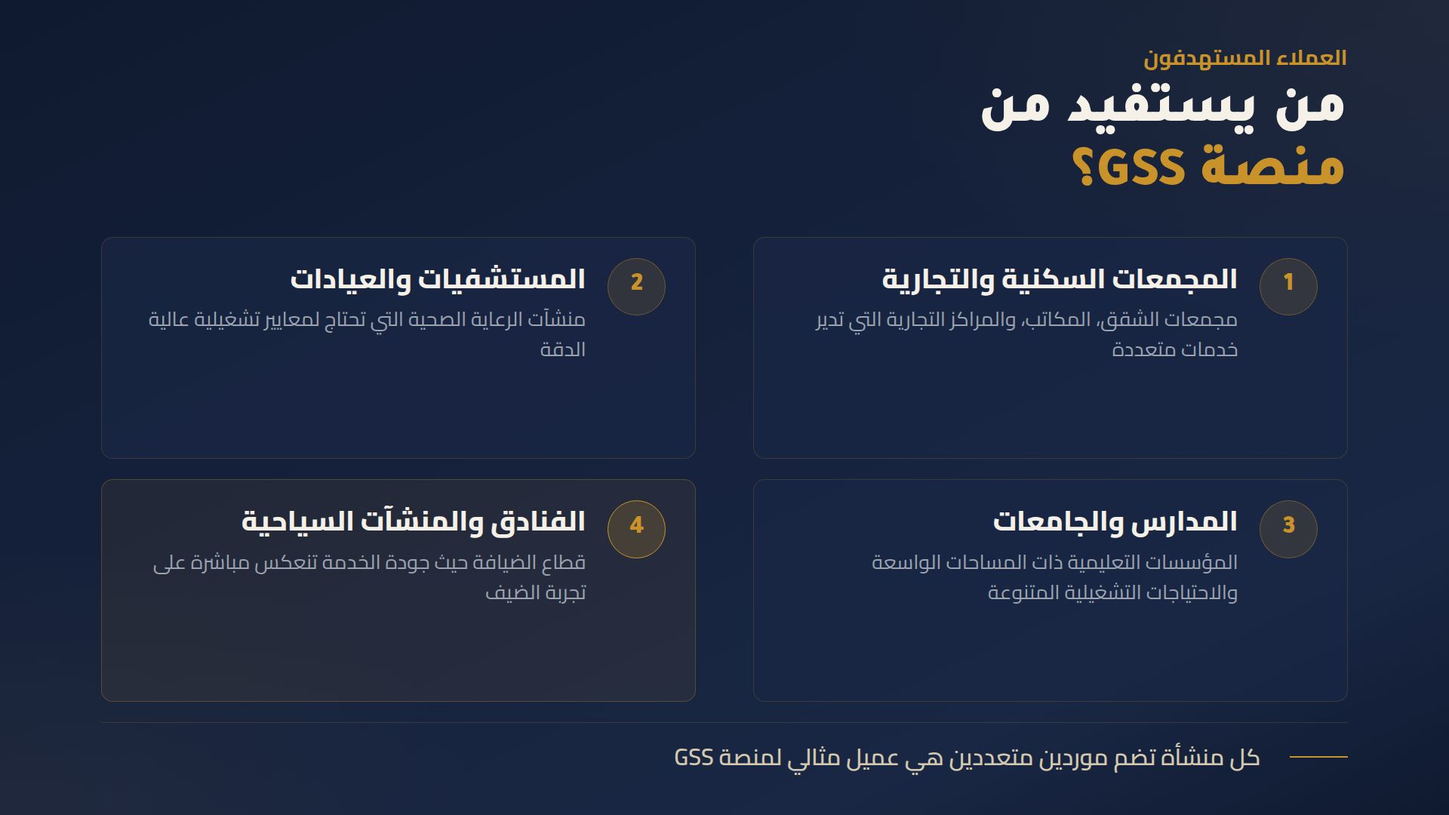
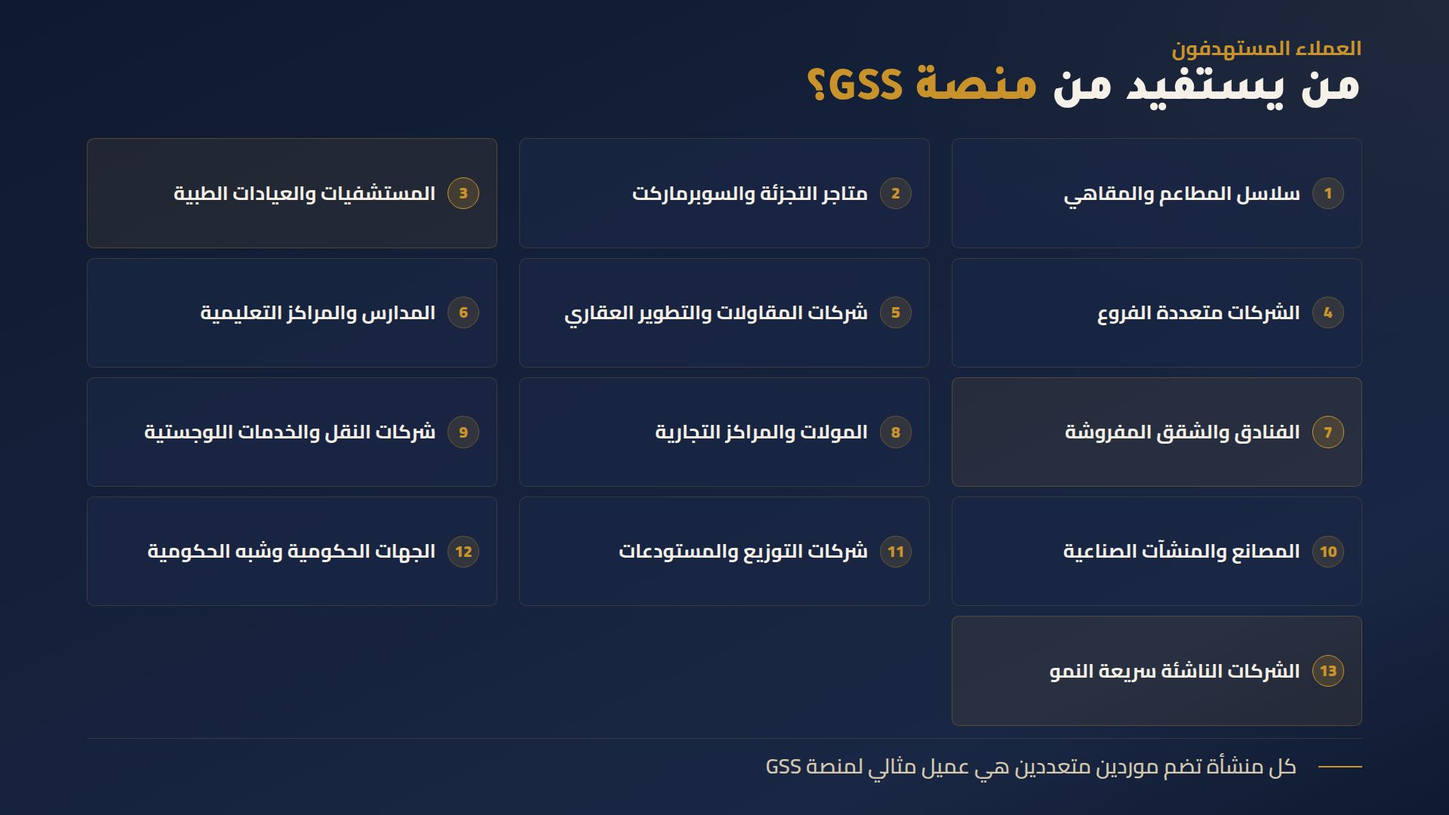
Update presentation slides to include comprehensive service and beneficiary information
Updated slides 3, 4, and 5 of the pitch deck to reflect a more detailed and accurate representation of services, target beneficiaries, and revenue streams based on the GSS platform.

Replit-Commit-Author: Agent
Replit-Commit-Session-Id: fefb3f42-8fe7-4d4a-b31c-d2b4e2bcc6b7
Replit-Commit-Checkpoint-Type: full_checkpoint
Replit-Commit-Event-Id: a2b8fd0d-dbaf-4f71-9571-b289b795e600
Replit-Commit-Screenshot-Url: https://storage.googleapis.com/screenshot-production-us-central1/638945ee-c34d-4790-b189-9802f7f0cc91/fefb3f42-8fe7-4d4a-b31c-d2b4e2bcc6b7/qyDsEtG
Replit-Helium-Checkpoint-Created: true

diff --git a/artifacts/pitch-deck/src/pages/slides/Slide4WhoWeBenefit.tsx b/artifacts/pitch-deck/src/pages/slides/Slide4WhoWeBenefit.tsx
@@ -2,59 +2,114 @@ export default function Slide4WhoWeBenefit() {
   return (
     <div className="relative w-screen h-screen overflow-hidden" dir="rtl" style={{ background: "linear-gradient(155deg, #0f1a30 0%, #1a2744 80%, #0f1a30 100%)" }}>
       <div className="absolute" style={{ top: 0, right: 0, width: "50vw", height: "50vh", background: "radial-gradient(ellipse at top right, rgba(201,146,42,0.06), transparent 60%)" }} />
-      <div className="absolute" style={{ bottom: 0, left: 0, width: "40vw", height: "40vh", background: "radial-gradient(ellipse at bottom left, rgba(201,146,42,0.05), transparent 60%)" }} />
 
-      <div className="absolute inset-0 flex flex-col" style={{ padding: "5vh 7vw" }}>
-        <div style={{ marginBottom: "1vh" }}>
-          <span className="font-body" style={{ fontSize: "1.5vw", color: "#c9922a", fontWeight: 700, letterSpacing: "0.15em" }}>العملاء المستهدفون</span>
+      <div className="absolute inset-0 flex flex-col" style={{ padding: "4vh 6vw" }}>
+        <div style={{ marginBottom: "0.5vh" }}>
+          <span className="font-body" style={{ fontSize: "1.4vw", color: "#c9922a", fontWeight: 700, letterSpacing: "0.15em" }}>العملاء المستهدفون</span>
         </div>
-        <h2 className="font-display font-black" style={{ fontSize: "3.8vw", color: "#f5f0e8", lineHeight: 1.15, marginBottom: "3.5vh", letterSpacing: "-0.01em" }}>
-          من يستفيد من<br />
-          <span style={{ color: "#c9922a" }}>منصة GSS؟</span>
+        <h2 className="font-display font-black" style={{ fontSize: "3.2vw", color: "#f5f0e8", lineHeight: 1.1, marginBottom: "2.5vh", letterSpacing: "-0.01em" }}>
+          من يستفيد من
+          <span style={{ color: "#c9922a" }}> منصة GSS؟</span>
         </h2>
 
-        <div style={{ display: "grid", gridTemplateColumns: "1fr 1fr", gap: "2.5vh 4vw", flex: 1 }}>
-          <div style={{ background: "rgba(26,39,68,0.7)", border: "1px solid rgba(201,146,42,0.2)", borderRadius: "0.8vw", padding: "2.5vh 2vw", display: "flex", gap: "1.5vw", alignItems: "flex-start" }}>
-            <div style={{ minWidth: "4vw", height: "4vw", borderRadius: "50%", background: "rgba(201,146,42,0.15)", border: "1px solid rgba(201,146,42,0.4)", display: "flex", alignItems: "center", justifyContent: "center" }}>
-              <span style={{ fontSize: "1.8vw", fontWeight: 900, color: "#c9922a", fontFamily: "var(--font-display-family)" }}>1</span>
+        <div style={{ display: "grid", gridTemplateColumns: "1fr 1fr 1fr", gap: "1.2vh 1.5vw", flex: 1 }}>
+
+          <div style={{ background: "rgba(26,39,68,0.7)", border: "1px solid rgba(201,146,42,0.2)", borderRadius: "0.5vw", padding: "1.4vh 1.2vw", display: "flex", alignItems: "center", gap: "0.8vw" }}>
+            <div style={{ minWidth: "2.2vw", height: "2.2vw", borderRadius: "50%", background: "rgba(201,146,42,0.15)", border: "1px solid rgba(201,146,42,0.35)", display: "flex", alignItems: "center", justifyContent: "center" }}>
+              <span style={{ fontSize: "1.1vw", fontWeight: 900, color: "#c9922a" }}>1</span>
             </div>
-            <div>
-              <div style={{ fontSize: "1.9vw", color: "#f5f0e8", fontWeight: 800, marginBottom: "0.5vh" }}>المجمعات السكنية والتجارية</div>
-              <div style={{ fontSize: "1.4vw", color: "#9ca3b0", lineHeight: 1.5 }}>مجمعات الشقق، المكاتب، والمراكز التجارية التي تدير خدمات متعددة</div>
-            </div>
+            <span style={{ fontSize: "1.35vw", color: "#f5f0e8", fontWeight: 700 }}>سلاسل المطاعم والمقاهي</span>
           </div>
-          <div style={{ background: "rgba(26,39,68,0.7)", border: "1px solid rgba(201,146,42,0.2)", borderRadius: "0.8vw", padding: "2.5vh 2vw", display: "flex", gap: "1.5vw", alignItems: "flex-start" }}>
-            <div style={{ minWidth: "4vw", height: "4vw", borderRadius: "50%", background: "rgba(201,146,42,0.15)", border: "1px solid rgba(201,146,42,0.4)", display: "flex", alignItems: "center", justifyContent: "center" }}>
-              <span style={{ fontSize: "1.8vw", fontWeight: 900, color: "#c9922a", fontFamily: "var(--font-display-family)" }}>2</span>
+
+          <div style={{ background: "rgba(26,39,68,0.7)", border: "1px solid rgba(201,146,42,0.2)", borderRadius: "0.5vw", padding: "1.4vh 1.2vw", display: "flex", alignItems: "center", gap: "0.8vw" }}>
+            <div style={{ minWidth: "2.2vw", height: "2.2vw", borderRadius: "50%", background: "rgba(201,146,42,0.15)", border: "1px solid rgba(201,146,42,0.35)", display: "flex", alignItems: "center", justifyContent: "center" }}>
+              <span style={{ fontSize: "1.1vw", fontWeight: 900, color: "#c9922a" }}>2</span>
             </div>
-            <div>
-              <div style={{ fontSize: "1.9vw", color: "#f5f0e8", fontWeight: 800, marginBottom: "0.5vh" }}>المستشفيات والعيادات</div>
-              <div style={{ fontSize: "1.4vw", color: "#9ca3b0", lineHeight: 1.5 }}>منشآت الرعاية الصحية التي تحتاج لمعايير تشغيلية عالية الدقة</div>
-            </div>
+            <span style={{ fontSize: "1.35vw", color: "#f5f0e8", fontWeight: 700 }}>متاجر التجزئة والسوبرماركت</span>
           </div>
-          <div style={{ background: "rgba(26,39,68,0.7)", border: "1px solid rgba(201,146,42,0.2)", borderRadius: "0.8vw", padding: "2.5vh 2vw", display: "flex", gap: "1.5vw", alignItems: "flex-start" }}>
-            <div style={{ minWidth: "4vw", height: "4vw", borderRadius: "50%", background: "rgba(201,146,42,0.15)", border: "1px solid rgba(201,146,42,0.4)", display: "flex", alignItems: "center", justifyContent: "center" }}>
-              <span style={{ fontSize: "1.8vw", fontWeight: 900, color: "#c9922a", fontFamily: "var(--font-display-family)" }}>3</span>
+
+          <div style={{ background: "rgba(201,146,42,0.09)", border: "1px solid rgba(201,146,42,0.3)", borderRadius: "0.5vw", padding: "1.4vh 1.2vw", display: "flex", alignItems: "center", gap: "0.8vw" }}>
+            <div style={{ minWidth: "2.2vw", height: "2.2vw", borderRadius: "50%", background: "rgba(201,146,42,0.2)", border: "1px solid #c9922a", display: "flex", alignItems: "center", justifyContent: "center" }}>
+              <span style={{ fontSize: "1.1vw", fontWeight: 900, color: "#c9922a" }}>3</span>
             </div>
-            <div>
-              <div style={{ fontSize: "1.9vw", color: "#f5f0e8", fontWeight: 800, marginBottom: "0.5vh" }}>المدارس والجامعات</div>
-              <div style={{ fontSize: "1.4vw", color: "#9ca3b0", lineHeight: 1.5 }}>المؤسسات التعليمية ذات المساحات الواسعة والاحتياجات التشغيلية المتنوعة</div>
-            </div>
+            <span style={{ fontSize: "1.35vw", color: "#f5f0e8", fontWeight: 700 }}>المستشفيات والعيادات الطبية</span>
           </div>
-          <div style={{ background: "rgba(201,146,42,0.08)", border: "1px solid rgba(201,146,42,0.3)", borderRadius: "0.8vw", padding: "2.5vh 2vw", display: "flex", gap: "1.5vw", alignItems: "flex-start" }}>
-            <div style={{ minWidth: "4vw", height: "4vw", borderRadius: "50%", background: "rgba(201,146,42,0.2)", border: "1px solid #c9922a", display: "flex", alignItems: "center", justifyContent: "center" }}>
-              <span style={{ fontSize: "1.8vw", fontWeight: 900, color: "#c9922a", fontFamily: "var(--font-display-family)" }}>4</span>
+
+          <div style={{ background: "rgba(26,39,68,0.7)", border: "1px solid rgba(201,146,42,0.2)", borderRadius: "0.5vw", padding: "1.4vh 1.2vw", display: "flex", alignItems: "center", gap: "0.8vw" }}>
+            <div style={{ minWidth: "2.2vw", height: "2.2vw", borderRadius: "50%", background: "rgba(201,146,42,0.15)", border: "1px solid rgba(201,146,42,0.35)", display: "flex", alignItems: "center", justifyContent: "center" }}>
+              <span style={{ fontSize: "1.1vw", fontWeight: 900, color: "#c9922a" }}>4</span>
             </div>
-            <div>
-              <div style={{ fontSize: "1.9vw", color: "#f5f0e8", fontWeight: 800, marginBottom: "0.5vh" }}>الفنادق والمنشآت السياحية</div>
-              <div style={{ fontSize: "1.4vw", color: "#9ca3b0", lineHeight: 1.5 }}>قطاع الضيافة حيث جودة الخدمة تنعكس مباشرة على تجربة الضيف</div>
-            </div>
+            <span style={{ fontSize: "1.35vw", color: "#f5f0e8", fontWeight: 700 }}>الشركات متعددة الفروع</span>
           </div>
+
+          <div style={{ background: "rgba(26,39,68,0.7)", border: "1px solid rgba(201,146,42,0.2)", borderRadius: "0.5vw", padding: "1.4vh 1.2vw", display: "flex", alignItems: "center", gap: "0.8vw" }}>
+            <div style={{ minWidth: "2.2vw", height: "2.2vw", borderRadius: "50%", background: "rgba(201,146,42,0.15)", border: "1px solid rgba(201,146,42,0.35)", display: "flex", alignItems: "center", justifyContent: "center" }}>
+              <span style={{ fontSize: "1.1vw", fontWeight: 900, color: "#c9922a" }}>5</span>
+            </div>
+            <span style={{ fontSize: "1.35vw", color: "#f5f0e8", fontWeight: 700 }}>شركات المقاولات والتطوير العقاري</span>
+          </div>
+
+          <div style={{ background: "rgba(26,39,68,0.7)", border: "1px solid rgba(201,146,42,0.2)", borderRadius: "0.5vw", padding: "1.4vh 1.2vw", display: "flex", alignItems: "center", gap: "0.8vw" }}>
+            <div style={{ minWidth: "2.2vw", height: "2.2vw", borderRadius: "50%", background: "rgba(201,146,42,0.15)", border: "1px solid rgba(201,146,42,0.35)", display: "flex", alignItems: "center", justifyContent: "center" }}>
+              <span style={{ fontSize: "1.1vw", fontWeight: 900, color: "#c9922a" }}>6</span>
+            </div>
+            <span style={{ fontSize: "1.35vw", color: "#f5f0e8", fontWeight: 700 }}>المدارس والمراكز التعليمية</span>
+          </div>
+
+          <div style={{ background: "rgba(201,146,42,0.09)", border: "1px solid rgba(201,146,42,0.3)", borderRadius: "0.5vw", padding: "1.4vh 1.2vw", display: "flex", alignItems: "center", gap: "0.8vw" }}>
+            <div style={{ minWidth: "2.2vw", height: "2.2vw", borderRadius: "50%", background: "rgba(201,146,42,0.2)", border: "1px solid #c9922a", display: "flex", alignItems: "center", justifyContent: "center" }}>
+              <span style={{ fontSize: "1.1vw", fontWeight: 900, color: "#c9922a" }}>7</span>
+            </div>
+            <span style={{ fontSize: "1.35vw", color: "#f5f0e8", fontWeight: 700 }}>الفنادق والشقق المفروشة</span>
+          </div>
+
+          <div style={{ background: "rgba(26,39,68,0.7)", border: "1px solid rgba(201,146,42,0.2)", borderRadius: "0.5vw", padding: "1.4vh 1.2vw", display: "flex", alignItems: "center", gap: "0.8vw" }}>
+            <div style={{ minWidth: "2.2vw", height: "2.2vw", borderRadius: "50%", background: "rgba(201,146,42,0.15)", border: "1px solid rgba(201,146,42,0.35)", display: "flex", alignItems: "center", justifyContent: "center" }}>
+              <span style={{ fontSize: "1.1vw", fontWeight: 900, color: "#c9922a" }}>8</span>
+            </div>
+            <span style={{ fontSize: "1.35vw", color: "#f5f0e8", fontWeight: 700 }}>المولات والمراكز التجارية</span>
+          </div>
+
+          <div style={{ background: "rgba(26,39,68,0.7)", border: "1px solid rgba(201,146,42,0.2)", borderRadius: "0.5vw", padding: "1.4vh 1.2vw", display: "flex", alignItems: "center", gap: "0.8vw" }}>
+            <div style={{ minWidth: "2.2vw", height: "2.2vw", borderRadius: "50%", background: "rgba(201,146,42,0.15)", border: "1px solid rgba(201,146,42,0.35)", display: "flex", alignItems: "center", justifyContent: "center" }}>
+              <span style={{ fontSize: "1.1vw", fontWeight: 900, color: "#c9922a" }}>9</span>
+            </div>
+            <span style={{ fontSize: "1.35vw", color: "#f5f0e8", fontWeight: 700 }}>شركات النقل والخدمات اللوجستية</span>
+          </div>
+
+          <div style={{ background: "rgba(26,39,68,0.7)", border: "1px solid rgba(201,146,42,0.2)", borderRadius: "0.5vw", padding: "1.4vh 1.2vw", display: "flex", alignItems: "center", gap: "0.8vw" }}>
+            <div style={{ minWidth: "2.2vw", height: "2.2vw", borderRadius: "50%", background: "rgba(201,146,42,0.15)", border: "1px solid rgba(201,146,42,0.35)", display: "flex", alignItems: "center", justifyContent: "center" }}>
+              <span style={{ fontSize: "1.1vw", fontWeight: 900, color: "#c9922a" }}>10</span>
+            </div>
+            <span style={{ fontSize: "1.35vw", color: "#f5f0e8", fontWeight: 700 }}>المصانع والمنشآت الصناعية</span>
+          </div>
+
+          <div style={{ background: "rgba(26,39,68,0.7)", border: "1px solid rgba(201,146,42,0.2)", borderRadius: "0.5vw", padding: "1.4vh 1.2vw", display: "flex", alignItems: "center", gap: "0.8vw" }}>
+            <div style={{ minWidth: "2.2vw", height: "2.2vw", borderRadius: "50%", background: "rgba(201,146,42,0.15)", border: "1px solid rgba(201,146,42,0.35)", display: "flex", alignItems: "center", justifyContent: "center" }}>
+              <span style={{ fontSize: "1.1vw", fontWeight: 900, color: "#c9922a" }}>11</span>
+            </div>
+            <span style={{ fontSize: "1.35vw", color: "#f5f0e8", fontWeight: 700 }}>شركات التوزيع والمستودعات</span>
+          </div>
+
+          <div style={{ background: "rgba(26,39,68,0.7)", border: "1px solid rgba(201,146,42,0.2)", borderRadius: "0.5vw", padding: "1.4vh 1.2vw", display: "flex", alignItems: "center", gap: "0.8vw" }}>
+            <div style={{ minWidth: "2.2vw", height: "2.2vw", borderRadius: "50%", background: "rgba(201,146,42,0.15)", border: "1px solid rgba(201,146,42,0.35)", display: "flex", alignItems: "center", justifyContent: "center" }}>
+              <span style={{ fontSize: "1.1vw", fontWeight: 900, color: "#c9922a" }}>12</span>
+            </div>
+            <span style={{ fontSize: "1.35vw", color: "#f5f0e8", fontWeight: 700 }}>الجهات الحكومية وشبه الحكومية</span>
+          </div>
+
+          <div style={{ background: "rgba(201,146,42,0.09)", border: "1px solid rgba(201,146,42,0.3)", borderRadius: "0.5vw", padding: "1.4vh 1.2vw", display: "flex", alignItems: "center", gap: "0.8vw" }}>
+            <div style={{ minWidth: "2.2vw", height: "2.2vw", borderRadius: "50%", background: "rgba(201,146,42,0.2)", border: "1px solid #c9922a", display: "flex", alignItems: "center", justifyContent: "center" }}>
+              <span style={{ fontSize: "1.1vw", fontWeight: 900, color: "#c9922a" }}>13</span>
+            </div>
+            <span style={{ fontSize: "1.35vw", color: "#f5f0e8", fontWeight: 700 }}>الشركات الناشئة سريعة النمو</span>
+          </div>
+
         </div>
 
-        <div style={{ marginTop: "2.5vh", display: "flex", alignItems: "center", gap: "2vw", borderTop: "1px solid rgba(201,146,42,0.2)", paddingTop: "2vh" }}>
-          <div style={{ width: "4vw", height: "2px", background: "#c9922a" }} />
-          <p className="font-body" style={{ fontSize: "1.6vw", color: "#d4c9b0", fontWeight: 600 }}>
+        <div style={{ marginTop: "1.5vh", display: "flex", alignItems: "center", gap: "1.5vw", borderTop: "1px solid rgba(201,146,42,0.2)", paddingTop: "1.5vh" }}>
+          <div style={{ width: "3vw", height: "2px", background: "#c9922a" }} />
+          <p className="font-body" style={{ fontSize: "1.45vw", color: "#d4c9b0", fontWeight: 600 }}>
             كل منشأة تضم موردين متعددين هي عميل مثالي لمنصة GSS
           </p>
         </div>

diff --git a/artifacts/pitch-deck/src/pages/slides/Slide3Solution.tsx b/artifacts/pitch-deck/src/pages/slides/Slide3Solution.tsx
@@ -1,48 +1,109 @@
 export default function Slide3Solution() {
   return (
     <div className="relative w-screen h-screen overflow-hidden" dir="rtl" style={{ background: "#0f1a30" }}>
-      <div className="absolute" style={{ top: "10vh", right: "-5vw", width: "45vw", height: "45vw", borderRadius: "50%", background: "radial-gradient(circle, rgba(201,146,42,0.07), transparent 70%)" }} />
+      <div className="absolute" style={{ top: "8vh", right: "-4vw", width: "40vw", height: "40vw", borderRadius: "50%", background: "radial-gradient(circle, rgba(201,146,42,0.06), transparent 70%)" }} />
+      <div className="absolute inset-0 flex flex-col" style={{ padding: "4vh 6vw" }}>
 
-      <div className="absolute inset-0 flex flex-col" style={{ padding: "5vh 7vw" }}>
-        <div style={{ marginBottom: "1vh" }}>
-          <span className="font-body" style={{ fontSize: "1.5vw", color: "#c9922a", fontWeight: 700, letterSpacing: "0.15em" }}>الحل</span>
+        <div style={{ marginBottom: "0.5vh" }}>
+          <span className="font-body" style={{ fontSize: "1.4vw", color: "#c9922a", fontWeight: 700, letterSpacing: "0.15em" }}>خدمات GSS</span>
         </div>
-        <h2 className="font-display font-black" style={{ fontSize: "3.8vw", color: "#f5f0e8", lineHeight: 1.15, marginBottom: "3.5vh", letterSpacing: "-0.01em" }}>
-          GSS — ستة خدمات جوهرية<br />
-          <span style={{ color: "#c9922a" }}>منظومة متكاملة لكل منشأة</span>
+        <h2 className="font-display font-black" style={{ fontSize: "3.2vw", color: "#f5f0e8", lineHeight: 1.1, marginBottom: "2.5vh", letterSpacing: "-0.01em" }}>
+          خدمات تشغيلية وإدارية
+          <span style={{ color: "#c9922a" }}> متكاملة</span>
         </h2>
 
-        <div style={{ display: "grid", gridTemplateColumns: "1fr 1fr 1fr", gap: "1.8vh 2vw", flex: 1 }}>
-          <div style={{ background: "rgba(201,146,42,0.08)", border: "1px solid rgba(201,146,42,0.25)", borderRadius: "0.5vw", padding: "2vh 1.5vw" }}>
-            <div style={{ fontSize: "2.2vw", fontWeight: 900, color: "#c9922a", fontFamily: "var(--font-display-family)", marginBottom: "0.8vh" }}>01</div>
-            <div style={{ fontSize: "1.7vw", color: "#f5f0e8", fontWeight: 700, marginBottom: "0.5vh" }}>الصيانة والإصلاح</div>
-            <div style={{ fontSize: "1.4vw", color: "#9ca3b0", lineHeight: 1.4 }}>إدارة طلبات الصيانة الدورية والطارئة بكفاءة عالية</div>
+        <div style={{ display: "grid", gridTemplateColumns: "1fr 1fr", gap: "2vw", flex: 1 }}>
+
+          <div style={{ background: "rgba(26,39,68,0.7)", border: "1px solid rgba(201,146,42,0.25)", borderRadius: "0.6vw", padding: "2vh 1.8vw", display: "flex", flexDirection: "column", gap: "1.1vh" }}>
+            <div style={{ fontSize: "1.5vw", color: "#c9922a", fontWeight: 800, marginBottom: "0.8vh", borderBottom: "1px solid rgba(201,146,42,0.2)", paddingBottom: "0.8vh" }}>
+              خدمات تشغيلية
+            </div>
+            <div style={{ display: "flex", alignItems: "center", gap: "0.8vw" }}>
+              <div style={{ width: "0.4vw", height: "0.4vw", borderRadius: "50%", background: "#c9922a", flexShrink: 0 }} />
+              <span style={{ fontSize: "1.35vw", color: "#f5f0e8", fontWeight: 600 }}>الصيانة والتشغيل</span>
+            </div>
+            <div style={{ display: "flex", alignItems: "center", gap: "0.8vw" }}>
+              <div style={{ width: "0.4vw", height: "0.4vw", borderRadius: "50%", background: "#c9922a", flexShrink: 0 }} />
+              <span style={{ fontSize: "1.35vw", color: "#f5f0e8", fontWeight: 600 }}>الكهرباء والمياه</span>
+            </div>
+            <div style={{ display: "flex", alignItems: "center", gap: "0.8vw" }}>
+              <div style={{ width: "0.4vw", height: "0.4vw", borderRadius: "50%", background: "#c9922a", flexShrink: 0 }} />
+              <span style={{ fontSize: "1.35vw", color: "#f5f0e8", fontWeight: 600 }}>الأمن والسلامة</span>
+            </div>
+            <div style={{ display: "flex", alignItems: "center", gap: "0.8vw" }}>
+              <div style={{ width: "0.4vw", height: "0.4vw", borderRadius: "50%", background: "#c9922a", flexShrink: 0 }} />
+              <span style={{ fontSize: "1.35vw", color: "#f5f0e8", fontWeight: 600 }}>النقل والخدمات اللوجستية</span>
+            </div>
+            <div style={{ display: "flex", alignItems: "center", gap: "0.8vw" }}>
+              <div style={{ width: "0.4vw", height: "0.4vw", borderRadius: "50%", background: "#c9922a", flexShrink: 0 }} />
+              <span style={{ fontSize: "1.35vw", color: "#f5f0e8", fontWeight: 600 }}>الأسطول والمركبات</span>
+            </div>
+            <div style={{ display: "flex", alignItems: "center", gap: "0.8vw" }}>
+              <div style={{ width: "0.4vw", height: "0.4vw", borderRadius: "50%", background: "#c9922a", flexShrink: 0 }} />
+              <span style={{ fontSize: "1.35vw", color: "#f5f0e8", fontWeight: 600 }}>تجهيز الفروع والمواقع</span>
+            </div>
+            <div style={{ display: "flex", alignItems: "center", gap: "0.8vw" }}>
+              <div style={{ width: "0.4vw", height: "0.4vw", borderRadius: "50%", background: "#c9922a", flexShrink: 0 }} />
+              <span style={{ fontSize: "1.35vw", color: "#f5f0e8", fontWeight: 600 }}>خدمات الاتصالات</span>
+            </div>
+            <div style={{ display: "flex", alignItems: "center", gap: "0.8vw" }}>
+              <div style={{ width: "0.4vw", height: "0.4vw", borderRadius: "50%", background: "#c9922a", flexShrink: 0 }} />
+              <span style={{ fontSize: "1.35vw", color: "#f5f0e8", fontWeight: 600 }}>الاستجابة للحالات الطارئة</span>
+            </div>
+            <div style={{ display: "flex", alignItems: "center", gap: "0.8vw" }}>
+              <div style={{ width: "0.4vw", height: "0.4vw", borderRadius: "50%", background: "#c9922a", flexShrink: 0 }} />
+              <span style={{ fontSize: "1.35vw", color: "#f5f0e8", fontWeight: 600 }}>الأصول التشغيلية</span>
+            </div>
+            <div style={{ marginTop: "auto", paddingTop: "1vh", borderTop: "1px solid rgba(201,146,42,0.15)" }}>
+              <span style={{ fontSize: "1.2vw", color: "#9ca3b0" }}>تكييف — سباكة — كهرباء — دهانات — نجارة — نظافة — تعقيم — مكافحة حشرات — أرضيات — جبس — باركيه — غرف تبريد — عشب صناعي — مضلات — أحواض سباحة</span>
+            </div>
           </div>
-          <div style={{ background: "rgba(26,39,68,0.8)", border: "1px solid rgba(201,146,42,0.15)", borderRadius: "0.5vw", padding: "2vh 1.5vw" }}>
-            <div style={{ fontSize: "2.2vw", fontWeight: 900, color: "#c9922a", fontFamily: "var(--font-display-family)", marginBottom: "0.8vh" }}>02</div>
-            <div style={{ fontSize: "1.7vw", color: "#f5f0e8", fontWeight: 700, marginBottom: "0.5vh" }}>النظافة والتعقيم</div>
-            <div style={{ fontSize: "1.4vw", color: "#9ca3b0", lineHeight: 1.4 }}>خدمات تنظيف احترافية وفق جداول منتظمة وموثقة</div>
+
+          <div style={{ background: "linear-gradient(135deg, rgba(201,146,42,0.09), rgba(201,146,42,0.03))", border: "1px solid rgba(201,146,42,0.3)", borderRadius: "0.6vw", padding: "2vh 1.8vw", display: "flex", flexDirection: "column", gap: "1.1vh" }}>
+            <div style={{ fontSize: "1.5vw", color: "#c9922a", fontWeight: 800, marginBottom: "0.8vh", borderBottom: "1px solid rgba(201,146,42,0.2)", paddingBottom: "0.8vh" }}>
+              خدمات إدارية
+            </div>
+            <div style={{ display: "flex", alignItems: "center", gap: "0.8vw" }}>
+              <div style={{ width: "0.4vw", height: "0.4vw", borderRadius: "50%", background: "#c9922a", flexShrink: 0 }} />
+              <span style={{ fontSize: "1.35vw", color: "#f5f0e8", fontWeight: 600 }}>الاستشارات التشغيلية</span>
+            </div>
+            <div style={{ display: "flex", alignItems: "center", gap: "0.8vw" }}>
+              <div style={{ width: "0.4vw", height: "0.4vw", borderRadius: "50%", background: "#c9922a", flexShrink: 0 }} />
+              <span style={{ fontSize: "1.35vw", color: "#f5f0e8", fontWeight: 600 }}>عقود الموردين</span>
+            </div>
+            <div style={{ display: "flex", alignItems: "center", gap: "0.8vw" }}>
+              <div style={{ width: "0.4vw", height: "0.4vw", borderRadius: "50%", background: "#c9922a", flexShrink: 0 }} />
+              <span style={{ fontSize: "1.35vw", color: "#f5f0e8", fontWeight: 600 }}>الميزانية التشغيلية</span>
+            </div>
+            <div style={{ display: "flex", alignItems: "center", gap: "0.8vw" }}>
+              <div style={{ width: "0.4vw", height: "0.4vw", borderRadius: "50%", background: "#c9922a", flexShrink: 0 }} />
+              <span style={{ fontSize: "1.35vw", color: "#f5f0e8", fontWeight: 600 }}>الامتثال التشغيلي</span>
+            </div>
+            <div style={{ display: "flex", alignItems: "center", gap: "0.8vw" }}>
+              <div style={{ width: "0.4vw", height: "0.4vw", borderRadius: "50%", background: "#c9922a", flexShrink: 0 }} />
+              <span style={{ fontSize: "1.35vw", color: "#f5f0e8", fontWeight: 600 }}>بيئة العمل والخدمات الإدارية</span>
+            </div>
+            <div style={{ display: "flex", alignItems: "center", gap: "0.8vw" }}>
+              <div style={{ width: "0.4vw", height: "0.4vw", borderRadius: "50%", background: "#c9922a", flexShrink: 0 }} />
+              <span style={{ fontSize: "1.35vw", color: "#f5f0e8", fontWeight: 600 }}>إسكان الموظفين</span>
+            </div>
+            <div style={{ display: "flex", alignItems: "center", gap: "0.8vw" }}>
+              <div style={{ width: "0.4vw", height: "0.4vw", borderRadius: "50%", background: "#c9922a", flexShrink: 0 }} />
+              <span style={{ fontSize: "1.35vw", color: "#f5f0e8", fontWeight: 600 }}>الفعاليات والمناسبات</span>
+            </div>
+            <div style={{ display: "flex", alignItems: "center", gap: "0.8vw" }}>
+              <div style={{ width: "0.4vw", height: "0.4vw", borderRadius: "50%", background: "#c9922a", flexShrink: 0 }} />
+              <span style={{ fontSize: "1.35vw", color: "#f5f0e8", fontWeight: 600 }}>تحليل المصروفات التشغيلية</span>
+            </div>
+            <div style={{ display: "flex", alignItems: "center", gap: "0.8vw" }}>
+              <div style={{ width: "0.4vw", height: "0.4vw", borderRadius: "50%", background: "#c9922a", flexShrink: 0 }} />
+              <span style={{ fontSize: "1.35vw", color: "#f5f0e8", fontWeight: 600 }}>التقارير والامتثال التنظيمي</span>
+            </div>
+            <div style={{ marginTop: "auto", paddingTop: "1vh", borderTop: "1px solid rgba(201,146,42,0.15)" }}>
+              <span style={{ fontSize: "1.25vw", color: "#d4c9b0", fontWeight: 600 }}>منصة GSS — نقطة إدارة تشغيل واحدة لكل منشأتك</span>
+            </div>
           </div>
-          <div style={{ background: "rgba(26,39,68,0.8)", border: "1px solid rgba(201,146,42,0.15)", borderRadius: "0.5vw", padding: "2vh 1.5vw" }}>
-            <div style={{ fontSize: "2.2vw", fontWeight: 900, color: "#c9922a", fontFamily: "var(--font-display-family)", marginBottom: "0.8vh" }}>03</div>
-            <div style={{ fontSize: "1.7vw", color: "#f5f0e8", fontWeight: 700, marginBottom: "0.5vh" }}>الأمن والحراسة</div>
-            <div style={{ fontSize: "1.4vw", color: "#9ca3b0", lineHeight: 1.4 }}>إدارة خدمات الحماية والأمن للمنشآت والمواقع</div>
-          </div>
-          <div style={{ background: "rgba(26,39,68,0.8)", border: "1px solid rgba(201,146,42,0.15)", borderRadius: "0.5vw", padding: "2vh 1.5vw" }}>
-            <div style={{ fontSize: "2.2vw", fontWeight: 900, color: "#c9922a", fontFamily: "var(--font-display-family)", marginBottom: "0.8vh" }}>04</div>
-            <div style={{ fontSize: "1.7vw", color: "#f5f0e8", fontWeight: 700, marginBottom: "0.5vh" }}>المناولة والنقل</div>
-            <div style={{ fontSize: "1.4vw", color: "#9ca3b0", lineHeight: 1.4 }}>تنسيق خدمات النقل الداخلي وإدارة الخدمات اللوجستية</div>
-          </div>
-          <div style={{ background: "rgba(201,146,42,0.08)", border: "1px solid rgba(201,146,42,0.25)", borderRadius: "0.5vw", padding: "2vh 1.5vw" }}>
-            <div style={{ fontSize: "2.2vw", fontWeight: 900, color: "#c9922a", fontFamily: "var(--font-display-family)", marginBottom: "0.8vh" }}>05</div>
-            <div style={{ fontSize: "1.7vw", color: "#f5f0e8", fontWeight: 700, marginBottom: "0.5vh" }}>خدمات التشغيل</div>
-            <div style={{ fontSize: "1.4vw", color: "#9ca3b0", lineHeight: 1.4 }}>إدارة العمليات اليومية للمرافق والأنظمة التقنية</div>
-          </div>
-          <div style={{ background: "rgba(26,39,68,0.8)", border: "1px solid rgba(201,146,42,0.15)", borderRadius: "0.5vw", padding: "2vh 1.5vw" }}>
-            <div style={{ fontSize: "2.2vw", fontWeight: 900, color: "#c9922a", fontFamily: "var(--font-display-family)", marginBottom: "0.8vh" }}>06</div>
-            <div style={{ fontSize: "1.7vw", color: "#f5f0e8", fontWeight: 700, marginBottom: "0.5vh" }}>التقارير والامتثال</div>
-            <div style={{ fontSize: "1.4vw", color: "#9ca3b0", lineHeight: 1.4 }}>لوحات تحكم حية، تقارير أداء، ووثائق امتثال رقمية</div>
-          </div>
+
         </div>
       </div>
     </div>

diff --git a/artifacts/pitch-deck/src/pages/slides/Slide5Revenue.tsx b/artifacts/pitch-deck/src/pages/slides/Slide5Revenue.tsx
@@ -5,57 +5,68 @@ export default function Slide5Revenue() {
       <div className="absolute" style={{ top: 0, right: 0, width: "50vw", height: "50vh", background: "radial-gradient(ellipse at top right, rgba(201,146,42,0.05), transparent 60%)" }} />
 
       <div className="absolute inset-0 flex" style={{ padding: "5vh 7vw", gap: "5vw" }}>
-        <div style={{ flex: "0 0 38vw", display: "flex", flexDirection: "column", justifyContent: "center" }}>
+        <div style={{ flex: "0 0 36vw", display: "flex", flexDirection: "column", justifyContent: "center" }}>
           <div style={{ marginBottom: "1.5vh" }}>
             <span className="font-body" style={{ fontSize: "1.5vw", color: "#c9922a", fontWeight: 700, letterSpacing: "0.15em" }}>نموذج العوائد</span>
           </div>
-          <h2 className="font-display font-black" style={{ fontSize: "4vw", color: "#f5f0e8", lineHeight: 1.15, marginBottom: "3vh", letterSpacing: "-0.01em" }}>
-            أربعة مصادر<br />
+          <h2 className="font-display font-black" style={{ fontSize: "3.8vw", color: "#f5f0e8", lineHeight: 1.15, marginBottom: "2.5vh", letterSpacing: "-0.01em" }}>
+            خمسة مصادر<br />
             <span style={{ color: "#c9922a" }}>للإيرادات المتنوعة</span>
           </h2>
-          <p className="font-body" style={{ fontSize: "1.6vw", color: "#9ca3b0", lineHeight: 1.6, maxWidth: "32vw" }}>
+          <p className="font-body" style={{ fontSize: "1.55vw", color: "#9ca3b0", lineHeight: 1.6, maxWidth: "30vw" }}>
             نموذج عمل مرن يضمن تدفق إيرادات متعدد المصادر وقابلية توسع عالية مع النمو
           </p>
-          <div style={{ marginTop: "4vh", display: "flex", gap: "2vw" }}>
+          <div style={{ marginTop: "3.5vh", display: "flex", gap: "2vw" }}>
             <div style={{ textAlign: "center" }}>
-              <div style={{ fontSize: "3.5vw", fontWeight: 900, color: "#c9922a", fontFamily: "var(--font-display-family)" }}>50+</div>
-              <div style={{ fontSize: "1.4vw", color: "#9ca3b0", marginTop: "0.3vh" }}>منشأة مستهدفة</div>
+              <div style={{ fontSize: "3.5vw", fontWeight: 900, color: "#c9922a", fontFamily: "var(--font-display-family)" }}>100+</div>
+              <div style={{ fontSize: "1.35vw", color: "#9ca3b0", marginTop: "0.3vh" }}>منشأة مستهدفة</div>
             </div>
             <div style={{ width: "1px", background: "rgba(201,146,42,0.3)" }} />
             <div style={{ textAlign: "center" }}>
-              <div style={{ fontSize: "3.5vw", fontWeight: 900, color: "#c9922a", fontFamily: "var(--font-display-family)" }}>60+</div>
-              <div style={{ fontSize: "1.4vw", color: "#9ca3b0", marginTop: "0.3vh" }}>مورد معتمد</div>
+              <div style={{ fontSize: "3.5vw", fontWeight: 900, color: "#c9922a", fontFamily: "var(--font-display-family)" }}>80+</div>
+              <div style={{ fontSize: "1.35vw", color: "#9ca3b0", marginTop: "0.3vh" }}>مورد معتمد</div>
             </div>
           </div>
         </div>
 
-        <div style={{ flex: 1, display: "flex", flexDirection: "column", gap: "2vh", justifyContent: "center" }}>
-          <div style={{ background: "linear-gradient(135deg, rgba(201,146,42,0.12), rgba(201,146,42,0.05))", border: "1px solid rgba(201,146,42,0.3)", borderRadius: "0.8vw", padding: "2.5vh 2vw", display: "flex", alignItems: "center", gap: "2vw" }}>
-            <div style={{ fontSize: "2.8vw", fontWeight: 900, color: "#c9922a", fontFamily: "var(--font-display-family)", minWidth: "3vw" }}>01</div>
+        <div style={{ flex: 1, display: "flex", flexDirection: "column", gap: "1.5vh", justifyContent: "center" }}>
+          <div style={{ background: "linear-gradient(135deg, rgba(201,146,42,0.12), rgba(201,146,42,0.05))", border: "1px solid rgba(201,146,42,0.3)", borderRadius: "0.8vw", padding: "2vh 1.8vw", display: "flex", alignItems: "center", gap: "1.5vw" }}>
+            <div style={{ fontSize: "2.5vw", fontWeight: 900, color: "#c9922a", fontFamily: "var(--font-display-family)", minWidth: "2.8vw" }}>01</div>
             <div>
-              <div style={{ fontSize: "1.8vw", color: "#f5f0e8", fontWeight: 700 }}>اشتراك المنشآت</div>
-              <div style={{ fontSize: "1.4vw", color: "#9ca3b0", marginTop: "0.3vh" }}>اشتراك شهري/سنوي للوصول للمنصة وإدارة الخدمات</div>
+              <div style={{ fontSize: "1.7vw", color: "#f5f0e8", fontWeight: 700 }}>اشتراك المنشآت</div>
+              <div style={{ fontSize: "1.3vw", color: "#9ca3b0", marginTop: "0.2vh" }}>اشتراك شهري/سنوي للوصول للمنصة وإدارة الخدمات</div>
             </div>
           </div>
-          <div style={{ background: "rgba(26,39,68,0.6)", border: "1px solid rgba(201,146,42,0.15)", borderRadius: "0.8vw", padding: "2.5vh 2vw", display: "flex", alignItems: "center", gap: "2vw" }}>
-            <div style={{ fontSize: "2.8vw", fontWeight: 900, color: "#c9922a", fontFamily: "var(--font-display-family)", minWidth: "3vw" }}>02</div>
+
+          <div style={{ background: "rgba(26,39,68,0.6)", border: "1px solid rgba(201,146,42,0.15)", borderRadius: "0.8vw", padding: "2vh 1.8vw", display: "flex", alignItems: "center", gap: "1.5vw" }}>
+            <div style={{ fontSize: "2.5vw", fontWeight: 900, color: "#c9922a", fontFamily: "var(--font-display-family)", minWidth: "2.8vw" }}>02</div>
             <div>
-              <div style={{ fontSize: "1.8vw", color: "#f5f0e8", fontWeight: 700 }}>عمولة المعاملات</div>
-              <div style={{ fontSize: "1.4vw", color: "#9ca3b0", marginTop: "0.3vh" }}>نسبة من قيمة كل خدمة تُنفذ عبر المنصة</div>
+              <div style={{ fontSize: "1.7vw", color: "#f5f0e8", fontWeight: 700 }}>رسوم خدمة لكل طلب</div>
+              <div style={{ fontSize: "1.3vw", color: "#9ca3b0", marginTop: "0.2vh" }}>نسبة من قيمة كل خدمة تُنفذ عبر المنصة</div>
             </div>
           </div>
-          <div style={{ background: "rgba(26,39,68,0.6)", border: "1px solid rgba(201,146,42,0.15)", borderRadius: "0.8vw", padding: "2.5vh 2vw", display: "flex", alignItems: "center", gap: "2vw" }}>
-            <div style={{ fontSize: "2.8vw", fontWeight: 900, color: "#c9922a", fontFamily: "var(--font-display-family)", minWidth: "3vw" }}>03</div>
+
+          <div style={{ background: "linear-gradient(135deg, rgba(201,146,42,0.09), rgba(201,146,42,0.03))", border: "1px solid rgba(201,146,42,0.28)", borderRadius: "0.8vw", padding: "2vh 1.8vw", display: "flex", alignItems: "center", gap: "1.5vw" }}>
+            <div style={{ fontSize: "2.5vw", fontWeight: 900, color: "#c9922a", fontFamily: "var(--font-display-family)", minWidth: "2.8vw" }}>03</div>
             <div>
-              <div style={{ fontSize: "1.8vw", color: "#f5f0e8", fontWeight: 700 }}>تسجيل الموردين</div>
-              <div style={{ fontSize: "1.4vw", color: "#9ca3b0", marginTop: "0.3vh" }}>رسوم انضمام وتجديد سنوي لمزودي الخدمات</div>
+              <div style={{ fontSize: "1.7vw", color: "#f5f0e8", fontWeight: 700 }}>نسبة إدارة المشاريع الكبيرة</div>
+              <div style={{ fontSize: "1.3vw", color: "#9ca3b0", marginTop: "0.2vh" }}>نسبة مئوية من قيمة المشاريع التشغيلية الكبيرة والعقود الموسّعة</div>
             </div>
           </div>
-          <div style={{ background: "rgba(26,39,68,0.6)", border: "1px solid rgba(201,146,42,0.15)", borderRadius: "0.8vw", padding: "2.5vh 2vw", display: "flex", alignItems: "center", gap: "2vw" }}>
-            <div style={{ fontSize: "2.8vw", fontWeight: 900, color: "#c9922a", fontFamily: "var(--font-display-family)", minWidth: "3vw" }}>04</div>
+
+          <div style={{ background: "rgba(26,39,68,0.6)", border: "1px solid rgba(201,146,42,0.15)", borderRadius: "0.8vw", padding: "2vh 1.8vw", display: "flex", alignItems: "center", gap: "1.5vw" }}>
+            <div style={{ fontSize: "2.5vw", fontWeight: 900, color: "#c9922a", fontFamily: "var(--font-display-family)", minWidth: "2.8vw" }}>04</div>
             <div>
-              <div style={{ fontSize: "1.8vw", color: "#f5f0e8", fontWeight: 700 }}>الخدمات المميزة</div>
-              <div style={{ fontSize: "1.4vw", color: "#9ca3b0", marginTop: "0.3vh" }}>تقارير متقدمة، تكاملات خاصة، وحزم استشارية</div>
+              <div style={{ fontSize: "1.7vw", color: "#f5f0e8", fontWeight: 700 }}>تسجيل الموردين</div>
+              <div style={{ fontSize: "1.3vw", color: "#9ca3b0", marginTop: "0.2vh" }}>رسوم انضمام وتجديد سنوي لمزودي الخدمات</div>
+            </div>
+          </div>
+
+          <div style={{ background: "rgba(26,39,68,0.6)", border: "1px solid rgba(201,146,42,0.15)", borderRadius: "0.8vw", padding: "2vh 1.8vw", display: "flex", alignItems: "center", gap: "1.5vw" }}>
+            <div style={{ fontSize: "2.5vw", fontWeight: 900, color: "#c9922a", fontFamily: "var(--font-display-family)", minWidth: "2.8vw" }}>05</div>
+            <div>
+              <div style={{ fontSize: "1.7vw", color: "#f5f0e8", fontWeight: 700 }}>نسبة توصيات المستشارين</div>
+              <div style={{ fontSize: "1.3vw", color: "#9ca3b0", marginTop: "0.2vh" }}>نسبة من توصيات الاستشارات التشغيلية للمنشآت</div>
             </div>
           </div>
         </div>
